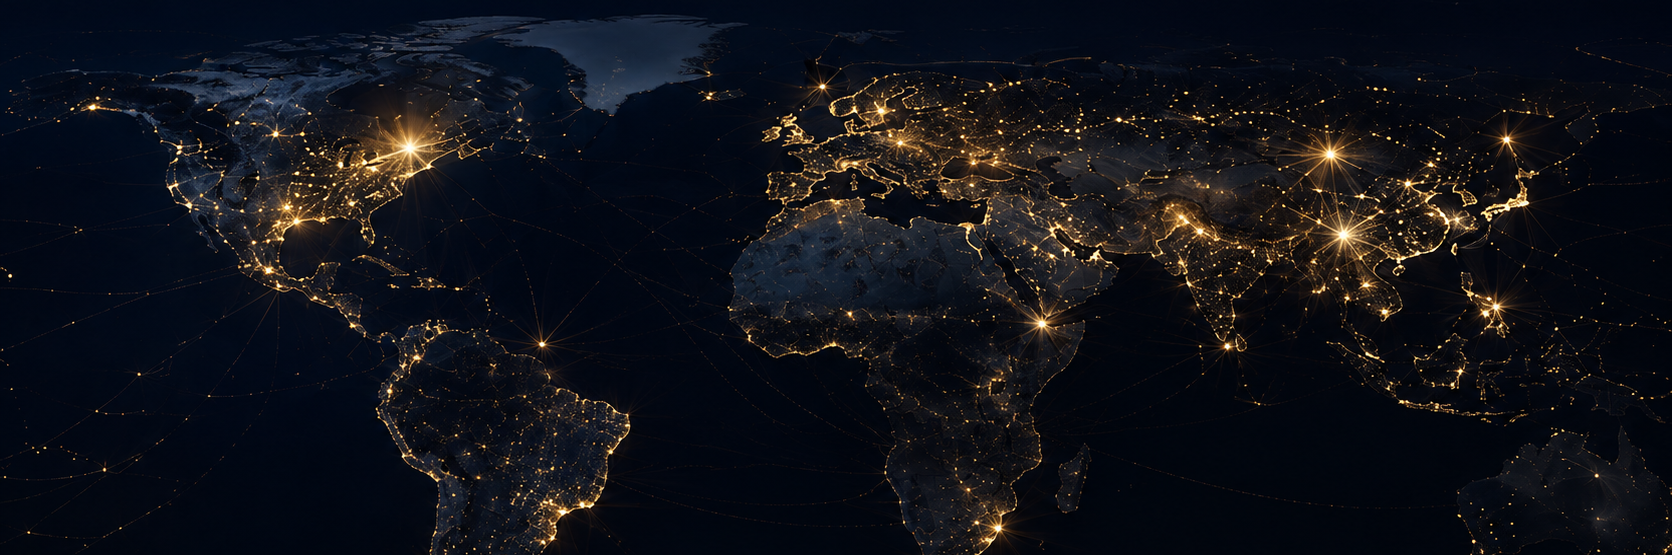
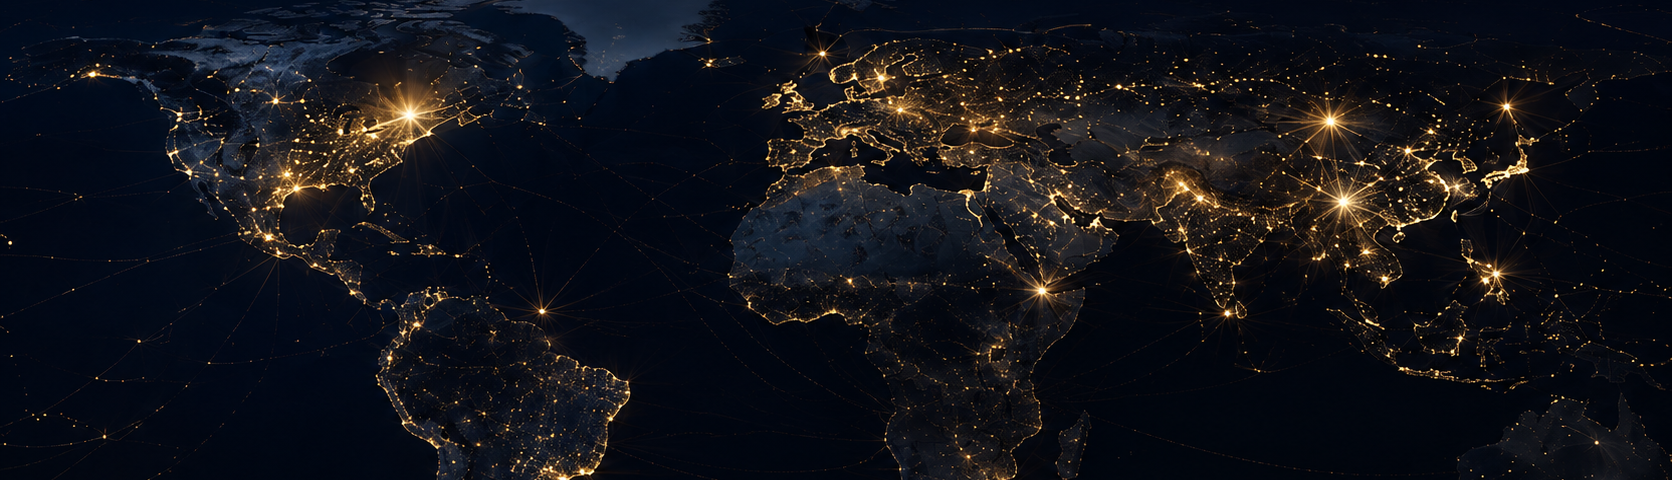
Zoom cropped memory map so lights fill card edges

diff --git a/public/css/home.css b/public/css/home.css
@@ -1050,30 +1050,31 @@ a.home-after-card--song:active {
   overflow: hidden;
   isolation: isolate;
   border-radius: var(--radius-md);
-  min-height: 200px;
+  min-height: 210px;
   width: 100%;
-  aspect-ratio: 1672 / 555;
   display: flex;
   align-items: center;
   justify-content: center;
-  background: #020408;
+  background: #000;
   border: 1px solid rgba(255, 255, 255, 0.08);
 }
 
-/* Always cover the full box — left/right and top/bottom — on every viewport. */
+/* Bleed + cover so the map paints every pixel of the box on mobile and desktop. */
 .home-after-memory__media {
   position: absolute;
-  top: 0;
-  right: 0;
-  bottom: 0;
-  left: 0;
+  top: -2px;
+  right: -2px;
+  bottom: -2px;
+  left: -2px;
   z-index: 0;
-  width: 100%;
-  height: 100%;
-  background-color: #020408;
+  width: auto;
+  height: auto;
+  background-color: #000;
   background-repeat: no-repeat;
   background-position: center center;
   background-size: cover;
+  transform: scale(1.06);
+  transform-origin: center center;
   pointer-events: none;
 }
 

diff --git a/public/index.html b/public/index.html
@@ -12,7 +12,7 @@
   <link rel="preconnect" href="https://fonts.gstatic.com" crossorigin>
   <link href="https://fonts.googleapis.com/css2?family=Inter:wght@400;500;600;700&display=swap" rel="stylesheet">
   <link rel="stylesheet" href="css/world-choir-theme.css?v=20260904e">
-  <link rel="stylesheet" href="css/home.css?v=20260904aw">
+  <link rel="stylesheet" href="css/home.css?v=20260904ax">
   <link rel="preload" as="image" href="images/after-event.png?v=20260903p">
   <link rel="stylesheet" href="css/profile.css?v=20270706b">
   <link rel="stylesheet" href="css/live-event.css?v=20260904as">
@@ -184,7 +184,7 @@
   <script src="js/live-event/global-live-event.js?v=20260904as"></script>
   <script src="js/world-choir-live-event.js?v=20260904an"></script>
   <script src="js/profile/daily-acts-peace.js?v=20260819a"></script>
-  <script src="js/world-choir-home.js?v=20260904aw"></script>
+  <script src="js/world-choir-home.js?v=20260904ax"></script>
   <script>
     (function bootWorldChoirHome() {
       function startHome() {
